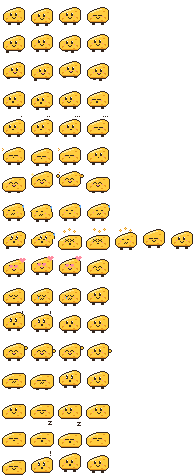
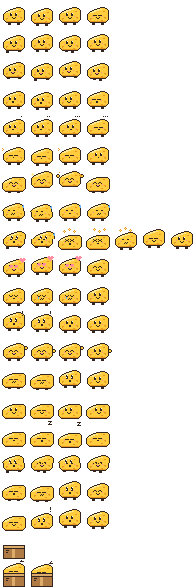
feat: 치즈 펫에 들림, 착지, 보관함 동작을 더한다 (#163)

diff --git a/lib/admin/pet/brain.ts b/lib/admin/pet/brain.ts
@@ -7,16 +7,20 @@
  * 3. 오래 가만히 있으면 앉기(30초), 졸기(2분)
  * 4. 그 밖에는 마우스를 따라간다. 멀면 달리고, 가까우면 걷고, 아주 가까우면 선다
  *
+ * 꾹 눌러 들고 다니는 동안(들림), 떨어지는 동안, 보관함에 들어가 있는 동안은 화면이 직접 정하고 이 함수를 부르지 않는다.
+ * 내려놓으면 착지(land)가 한 번짜리로 이어진다.
+ *
  * 움직임 줄이기 설정이면 걷지도 뛰지도 않고 제자리에서 대기 첫 프레임만 쓴다(화면이 처리한다).
  */
 
 export type Anim =
   | "idle" | "walk" | "run" | "listen" | "think" | "sniff" | "happy" | "confused" | "fall"
-  | "love" | "sad" | "surprise" | "wave" | "squish" | "sit" | "sleep" | "wake";
+  | "love" | "sad" | "surprise" | "wave" | "squish" | "sit" | "sleep" | "wake"
+  | "lift" | "land" | "box" | "boxed";
 
 export type SheetMeta = { cell: [number, number]; states: Record<Anim, { row: number; frames: number; ms: number; loop: boolean }> };
 
-export const ONCE: Anim[] = ["happy", "fall", "love", "sad", "surprise", "wave", "squish", "wake"];
+export const ONCE: Anim[] = ["happy", "fall", "love", "sad", "surprise", "wave", "squish", "wake", "land"];
 export const SIT_AFTER = 30_000;
 export const SLEEP_AFTER = 120_000;
 const WALK_FROM = 50;

diff --git a/scripts/pet/cheese.py b/scripts/pet/cheese.py
@@ -210,8 +210,8 @@ def make(f):
 A = lambda **k: k
 STATES = [
     ("idle", "대기", 260, True, "평소", [A(), A(dy=1), A(), A(eyes="closed")]),
-    ("walk", "걷기", 140, True, "마우스를 따라갈 때 (왼쪽은 좌우 반전)", [A(legs="a"), A(dy=-1), A(legs="b"), A(dy=-1)]),
-    ("run", "달리기", 90, True, "마우스가 멀리 있을 때", [A(legs="kick", dy=-1, mouth="open", look=1), A(legs="a", look=1, mouth="open"), A(legs="kick", dy=-2, mouth="open", look=1), A(legs="b", look=1, mouth="open")]),
+    ("walk", "걷기", 140, True, "마우스를 따라갈 때 (그림은 왼쪽을 본다. 오른쪽으로 갈 때 좌우 반전)", [A(legs="a"), A(dy=-1), A(legs="b"), A(dy=-1)]),
+    ("run", "달리기", 90, True, "마우스가 멀리 있을 때", [A(legs="kick", dy=-1, mouth="open", look=-1), A(legs="a", look=-1, mouth="open"), A(legs="kick", dy=-2, mouth="open", look=-1), A(legs="b", look=-1, mouth="open")]),
     ("listen", "귀 기울이기", 220, True, "챗봇 입력창에 글을 쓰는 동안", [A(look=-1, mouth="o"), A(look=-1, mouth="o", dy=1), A(look=-1, mouth="smile"), A(look=-1, mouth="o", eyes="closed")]),
     ("think", "생각", 260, True, "질문을 보내고 답을 기다릴 때", [A(look=-1, mouth="flat", fx="dots1"), A(look=-1, mouth="flat", fx="dots2"), A(look=1, mouth="flat", fx="dots3"), A(look=1, mouth="flat", fx="dots3", eyes="closed")]),
     ("sniff", "킁킁", 180, True, "답을 찾는 중(생각과 번갈아)", [A(mouth="sniff", eyes="closed", fx="smell"), A(mouth="sniff", eyes="closed", dy=1), A(mouth="sniff", eyes="closed", fx="smell"), A(mouth="sniff", eyes="open", look=1)]),
@@ -225,8 +225,58 @@ STATES = [
     ("squish", "꾹", 100, False, "펫을 누르고 있을 때", [A(squash=True, eyes="closed", mouth="wobble"), A(squash=True, eyes="closed", mouth="wobble", dy=1), A(eyes="wide", mouth="o", dy=-1), A()]),
     ("sit", "앉아 쉬기", 400, True, "30초 동안 아무것도 안 할 때", [A(legs="tuck", dy=3, squash=True), A(legs="tuck", dy=3, squash=True, eyes="closed"), A(legs="tuck", dy=3, squash=True, look=-1), A(legs="tuck", dy=3, squash=True, look=1)]),
     ("sleep", "졸기", 420, True, "2분 동안 아무것도 안 할 때", [A(legs="tuck", dy=3, squash=True, eyes="closed", mouth="flat"), A(legs="tuck", dy=3, squash=True, eyes="closed", mouth="o", fx="z1"), A(legs="tuck", dy=4, squash=True, eyes="closed", mouth="o", fx="z2"), A(legs="tuck", dy=3, squash=True, eyes="closed", mouth="flat")]),
+    ("lift", "들림", 130, True, "꾹 눌러서 옮기는 동안", [A(eyes="wide", mouth="o", legs="a", lean=-1), A(eyes="happy", mouth="open", legs="b", lean=1), A(eyes="wide", mouth="o", legs="kick", lean=-1), A(eyes="happy", mouth="open", legs="b", lean=1)]),
+    ("land", "착지", 110, False, "옮기다 놓았을 때", [A(squash=True, eyes="closed", mouth="o"), A(squash=True, dy=1, eyes="closed", mouth="wobble"), A(stretch=True, dy=-1, eyes="wide", mouth="o"), A(eyes="happy", mouth="smile")]),
     ("wake", "깨기", 140, False, "졸다가 마우스가 움직이면", [A(legs="tuck", dy=3, squash=True, eyes="closed"), A(legs="tuck", dy=2, eyes="wide", mouth="o", fx="bang"), A(stretch=True, dy=-1, eyes="open", mouth="o"), A(eyes="open", mouth="smile")]),
 ]
+
+BOX = (176, 122, 69)     # 상자
+TAPE = (222, 172, 106)   # 테이프, 윗면
+
+
+def make_box(peek):
+    """증거물 보관함. peek 이면 치즈가 뚜껑 위로 빼꼼 나와 잔다(peek 은 프레임 번호)"""
+    img = Image.new("RGBA", (W, H), (0, 0, 0, 0))
+    p = img.load()
+
+    def put(x, y, c):
+        if 0 <= x < W and 0 <= y < H:
+            p[x, y] = c + (255,)
+    x0, x1, y0, y1 = 3, 24, 13, 26
+    if peek is not None:
+        # 뚜껑 위로 치즈 윗부분: 몸 그림의 위쪽만 잘라 붙인다
+        c = make(A(eyes="closed", mouth="flat", legs="tuck", dy=-1, fx="z1" if peek % 2 == 0 else "z2"))
+        # 감은 눈까지 보이게 위로 뺀다(처음엔 얼굴이 상자에 가려 치즈 윗면만 보였다)
+        top = c.crop((0, 3, W, 16))
+        img.alpha_composite(top, (0, 0 if peek % 2 == 0 else 1))
+    for y in range(y0, y1 + 1):
+        for x in range(x0, x1 + 1):
+            edge = x in (x0, x1) or y in (y0, y1)
+            put(x, y, K if edge else BOX)
+    for x in range(x0 + 1, x1):  # 뚜껑 띠
+        put(x, y0 + 1, TAPE); put(x, y0 + 2, TAPE)
+    put(x0 + 1, y0 + 3, K); put(x1 - 1, y0 + 3, K)
+    for x in range(x0, x1 + 1):
+        put(x, y0 + 3, K)
+    for y in range(y0 + 4, y1):  # 가운데 테이프
+        put(12, y, TAPE); put(13, y, TAPE); put(14, y, TAPE)
+    for x, y in [(6, 18), (7, 18), (8, 18), (6, 20), (7, 20)]:  # 표식 (글자 없이 줄 두 개)
+        put(x, y, K)
+    return img
+
+
+STATES.append(("box", "보관함", 1000, True, "비어 있는 증거물 보관함", ["BOX:None"]))
+STATES.append(("boxed", "보관함 속", 600, True, "보관함에 넣어 두었을 때 (따라다니지 않는다)", ["BOX:0", "BOX:1"]))
+
+_make = make
+
+
+def make(f):  # noqa: F811 보관함 프레임은 문자열로 표시한다
+    if isinstance(f, str) and f.startswith("BOX:"):
+        v = f[4:]
+        return make_box(None if v == "None" else int(v))
+    return _make(f)
+
 
 cols = max(len(fr) for *_, fr in STATES)
 sheet = Image.new("RGBA", (cols * W, len(STATES) * H), (0, 0, 0, 0))
